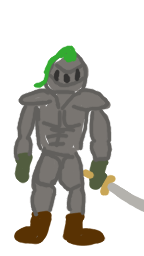
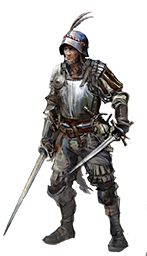
Added a whole bunch of stuff - Scoring system - New title screen - New prep screen - New buttons - New character preview images - Special abilities tweaked

diff --git a/public/preparationscreen.js b/public/preparationscreen.js
@@ -21,7 +21,7 @@ var rightButton;
 var lastIndex;
 
 var mercDescription = ["A sellsword hailing from a common village. \nHis loyalty is to gold, and his price is steep. \n Through his training, and experience in the art of warefare, \n he has equipped himself properly with medium armor and his favorite sword. \n His well balanced fighting style is valued highly and worth the price."];
-var rogueDescription = ["An outcast forced out of the major city of Firnim. \n Her thievery skills have allowed her to open chests faster than most, \n though she is better at picking locks than fights,\n she uses a dagger for self defense."];
+var rogueDescription = ["An outcast forced out of the major city of Firnim. \n His thievery skills have allowed him to open chests faster than most, \n though he is better at picking locks than fights,\n he uses a dagger for self defense."];
 var barbDescription = ["A ruffian looking to take advantage of the war by causing lawlessness and chaos.\n This melevolent man looks to get up close and hurt with his fists.\n  He can't take many hits but his health pool is incredible and one swing hurts massively"];
 var cavalryDescription = ["A mounted knight hailing from the village of Brynhildr.\n Raised in a family of farmer's his family's horses are the fastest in all the land,\n thanks to that he is faster than others, \nthough he can't hurt as much from horseback, his speed makes up for it.\n The horse's name is Bo'Jangles"];
 var knightDescription = ["Through dedication to his country,\n the knight has prided himself with an almost impenetrable suit of armor. \nTo wear such a suit encourages incredible strength to move and hurt as well.\n However, all of it comes at a cost of his speed."];
@@ -55,8 +55,8 @@ function initPrepScreen()
 	infoButton = new Button(leftPosX, 600, "Info", 22, defaultButtonImage, clickedButtonImage, showInfo);
 	randomButton = new Button(width/2, 205, "Random", 22, defaultButtonImage,clickedButtonImage,randomize);
 	selectButton = new Button(width/2, 257, "Select", 22, defaultButtonImage, clickedButtonImage, select);
-	leftButton = new Button(leftPosX + 137, 257, "<<<<<<<", 22, defaultButtonImage, clickedButtonImage, changeLeft);
-	rightButton = new Button(rightPosX - 137, 257, ">>>>>>>", 22, defaultButtonImage, clickedButtonImage, changeRight);
+	leftArrow = new Button(leftPosX + 137, 257, "Previous", 22, defaultButtonImage, clickedButtonImage, changeLeft);
+	rightArrow = new Button(rightPosX - 137, 257, "Next", 22, defaultButtonImage, clickedButtonImage, changeRight);
 
 	for (var i = 0; i < characterImages.length; i++)
 	{
@@ -181,8 +181,8 @@ function drawPrepScreen()
 	infoButton.draw();
 	randomButton.draw();
 	selectButton.draw();
-	leftButton.draw();
-	rightButton.draw();
+	leftArrow.draw();
+	rightArrow.draw();
 
 	textFont(goudy);
 

diff --git a/public/button.js b/public/button.js
@@ -33,10 +33,13 @@ Button.prototype.release = function()
 
 Button.prototype.draw = function() 
 {
+	stroke(255);
+	fill(255);
+	textFont(celtic);
+	
 	drawSprite(this.sprite);
 	textAlign(CENTER);
-	textSize(this.textSize);
-	text(this.buttonText, this.x, this.y + (this.textSize / 3));
+	textSize(this.textSize);	text(this.buttonText, this.x, this.y + (this.textSize / 3));
 };
 
 
